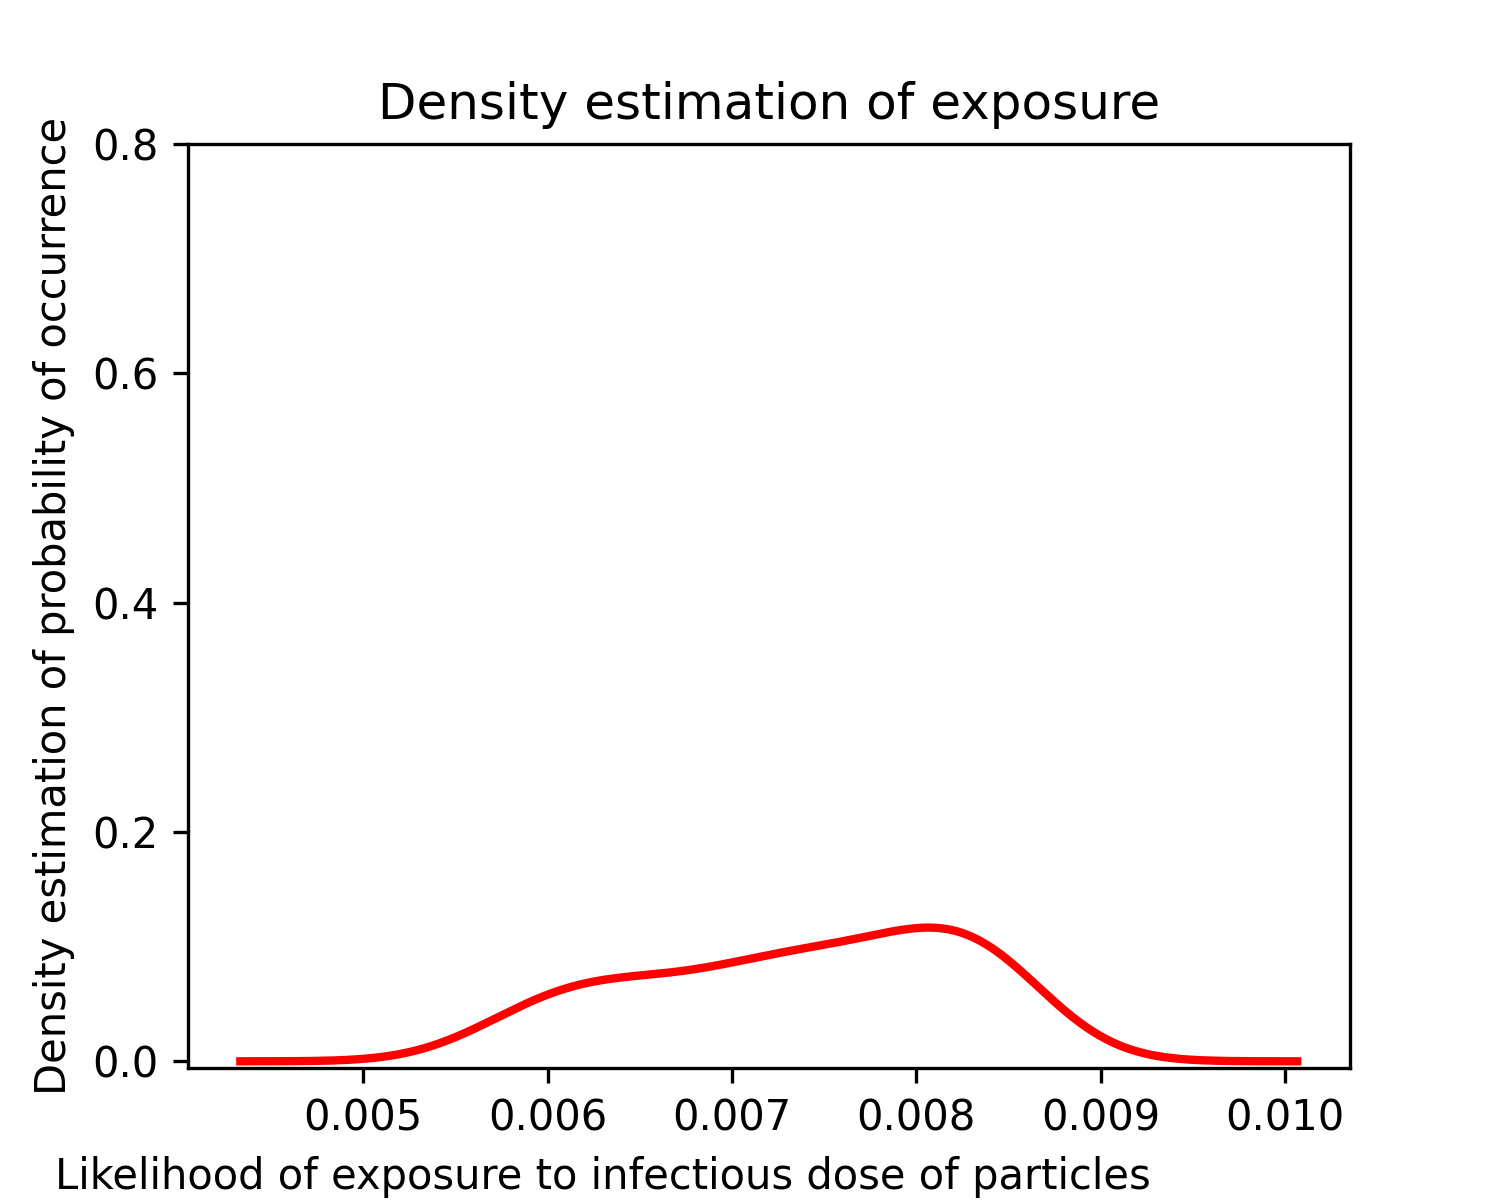
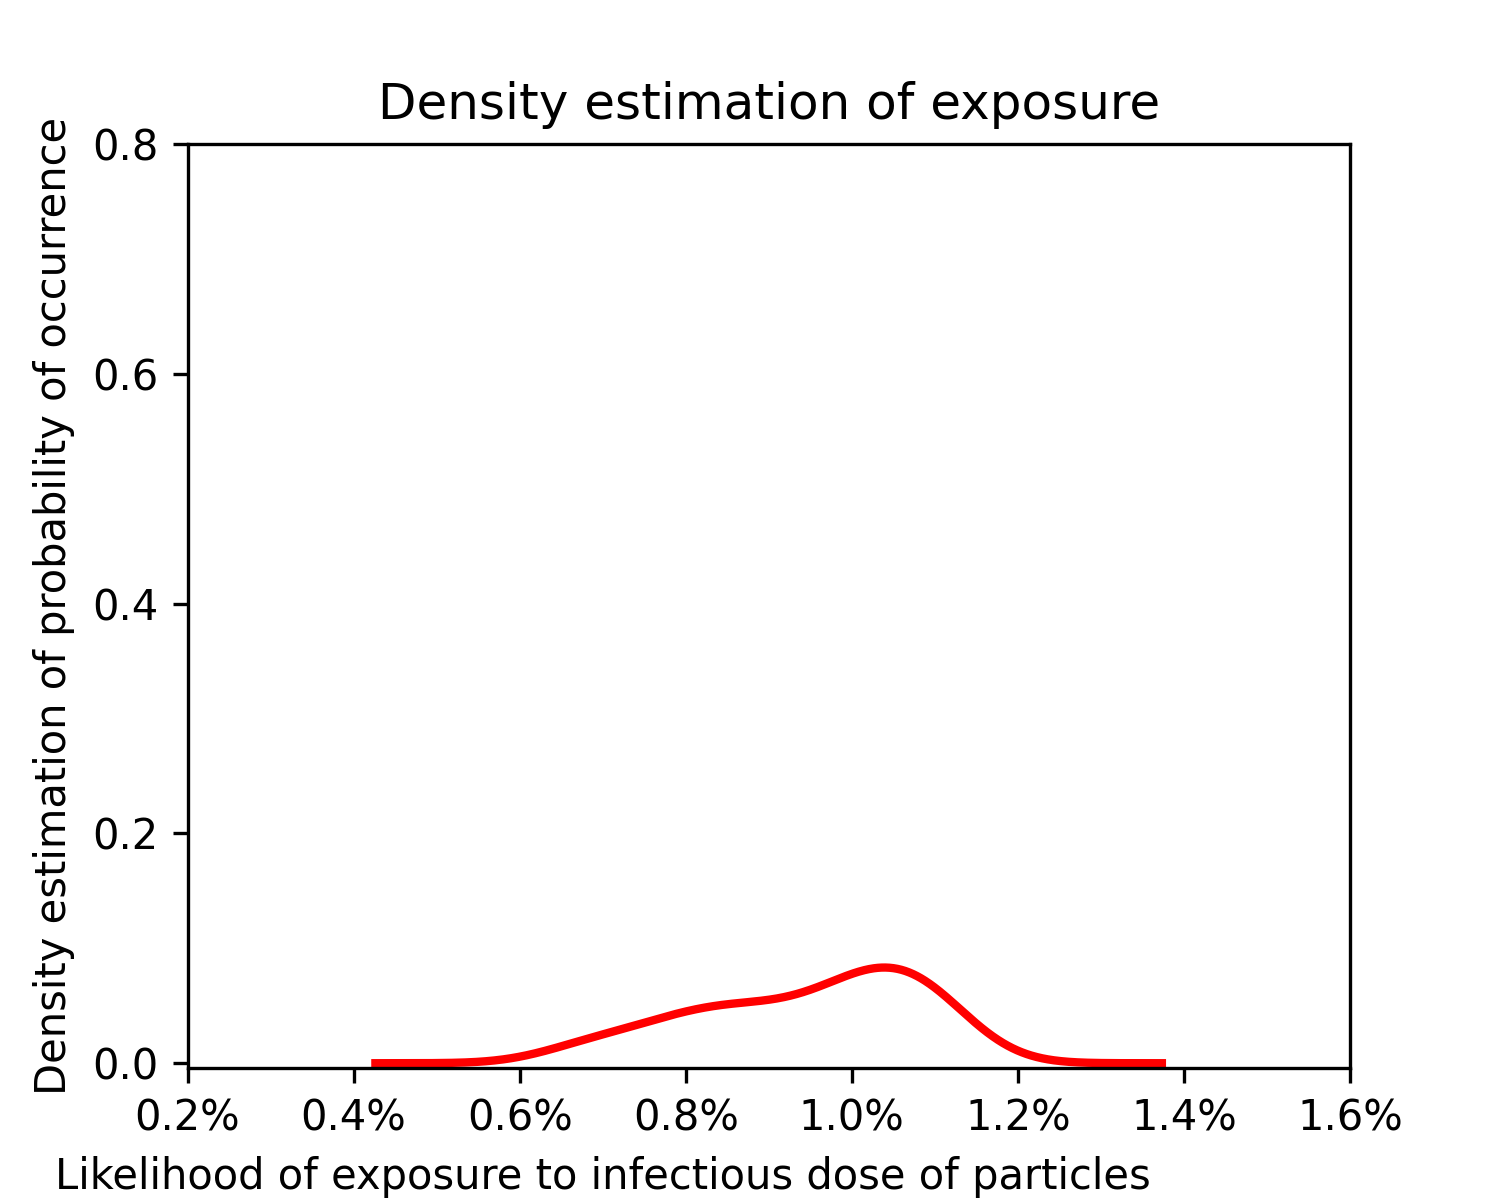
av_setup

diff --git a/av.py b/av.py
@@ -113,7 +113,7 @@ class user_viz():
             y_arr.append(i[1][0])
         # im = plt.imread('results/bus_img.png')
         # plt.imshow(im)
-        plt.title('Approximate Seating Chart')
+        plt.title('Approximate Seating Chart', fontsize=7)
         plt.xticks(np.array([1.2, 1.8, 2.2, 3.8, 4.2, 4.8]))
         plt.yticks(np.arange(-.5, 23.5, 1))
         plt.grid(True)
@@ -144,17 +144,26 @@ class user_viz():
         fig = plt.figure()
         ax1 = fig.add_subplot(1, 2, 1)
         ax1.matshow(out_mat, cmap="OrRd", norm=mpl.colors.LogNorm())
+        plt.arrow(-2,24,0,-26, head_width=0.2, head_length=0.2, fc='k', ec='k')
+        plt.gcf().set_size_inches(2,2)
+        # plt.suptitle('Relative Airflow Heatmap', fontsize=7.5)
+        plt.annotate(xy=(-1, -1), text='front', fontsize=5)
+        plt.annotate(xy=(-1, 24), text='back', fontsize=5)
+        plt.axis('off')
+
+
         ax2 = fig.add_subplot(1,2,2)
         ax2.matshow(out_mat, cmap="OrRd")#, norm=mpl.colors.LogNorm())
-        # plt.arrow(-2,24,0,-26, head_width=0.2, head_length=0.2, fc='k', ec='k')
-        # plt.gcf().set_size_inches(2,2)
-        # plt.suptitle('Relative Airflow Heatmap', fontsize=7.5)
-        # plt.annotate(xy=(-1, -1), text='front', fontsize=5)
-        # plt.annotate(xy=(-1, 24), text='back', fontsize=5)
-
+        plt.arrow(-2,24,0,-26, head_width=0.2, head_length=0.2, fc='k', ec='k')
+        plt.gcf().set_size_inches(2,2)
+        plt.suptitle('Relative Airflow Heatmap', fontsize=7.5)
+        plt.annotate(xy=(-1, -1), text='front', fontsize=5)
+        plt.annotate(xy=(-1, 24), text='back', fontsize=5)
         # log scale vs regular scale + 'be not afraid'
-        # plt.axis('off')
+        plt.axis('off')
+        fig.text(.1, .01, 'These heatmaps show relative airflow within the cabin \nof the bus in terms of its effect on concentration \nof COVID-19 Particles (averaged across 100 simulations)', fontsize=4)
         plt.savefig('results/relative_airflow.png', dpi=300)
+
         print('relative airflow complete!')
         # plt.show()
 
@@ -179,10 +188,13 @@ class user_viz():
         pd.Series(bus_trip).plot.kde(lw=2, c='r')
         plt.title('Density estimation of exposure')
         # plt.xlim(0, .004)
+        # print(plt.xticks())
 
         # set x ticks
-        # temp_x = np.array([i * 5 for i in range(8)])
-        # str_x = np.array([str(int / 100)+'%' for int in temp_x])
+        temp_x = np.array(plt.xticks()[0])
+        str_x = np.array([str(round(int * 100, 2))+'%' for int in temp_x])
+        print(str_x)
+        plt.xticks(temp_x, str_x)
 
         plt.ticklabel_format(axis="x")#, style="sci", scilimits=(0,0))
 

diff --git a/av_run.py b/av_run.py
@@ -27,19 +27,30 @@ def main(targets):
         default_data = json.load(f)
     with open('config/aerosol.json') as g:
         aerosol_data = json.load(g)
+    print(targets)
 
     # for i in sys.argv:
-    # print('t', targets, '0', targets[0])
+    # print('t', targets, '0', args.0])
     # number each of these:
-    floor_area = float(targets[0]) * 2.3 * 3.28084 # square feet
-    trip_duration = targets[1]
-    number_of_students = targets[2]
-    mask = targets[3]
-    windows = targets[4]
-    num_sims_ = targets[5]
-    mask_eff_ = targets[6]
-    seating_ = targets[7]
-    air_exchange_rate = targets[8]
+    floor_area = float(args.bus_type) * 2.3 * 3.28084 # square feet
+    trip_duration = args.trip_duration
+    number_of_students = args.num_students
+    mask = args.mask_wearing
+    windows = args.windows
+    num_sims_ = 100 # default
+    mask_eff_ = .1 # default
+    seating_ = args.seating_type
+    air_exchange_rate = 20 # default for a bus
+
+    bus_type_arg = '-l' #length of bus
+    trip_duration_arg = '-t'
+    seating_chart_type_arg = '-s'
+    num_students_on_bus = '-n'
+    mask_wearing_arg = '-m' # likelihood
+    windows_arg = '-w'
+
+
+
 
 
         # ask kaushik about how inputs work
@@ -87,7 +98,19 @@ def main(targets):
     return
 
 if __name__ == '__main__':
-    targets = sys.argv[1:]
+
+    parser = argparse.ArgumentParser()
+    parser.add_argument('-l', '--bus_type', required=True)
+    parser.add_argument('-t', '--trip_duration', required=True)
+    parser.add_argument('-s', '--seating_type', required=True)
+    parser.add_argument('-n', '--num_students', required=True)
+    parser.add_argument('-m', '--mask_wearing', required=True)
+    parser.add_argument('-w', '--windows', required=True)
+    args = parser.parse_args()
+    print(args)
+
+
+    targets = args
     # parser = argparse.ArgumentParser()
     # targets = parser.parse_args()
     # print(targets, 'targe')
